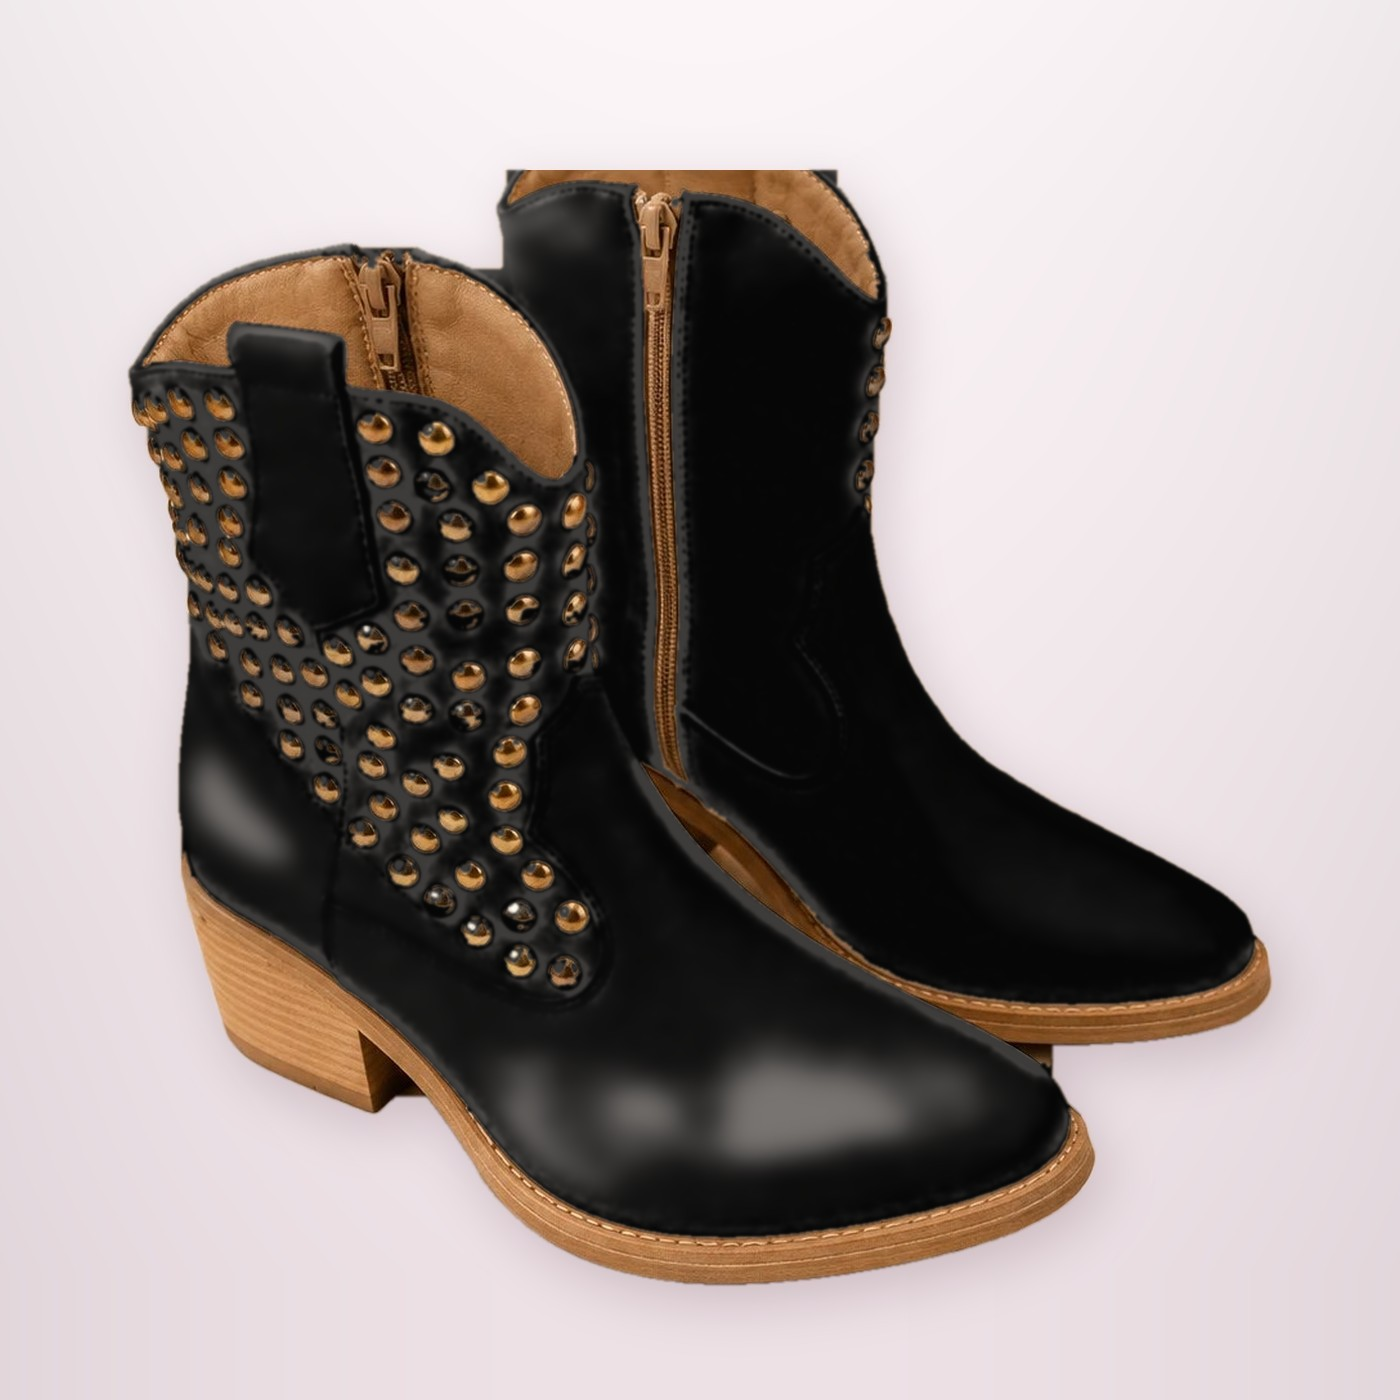
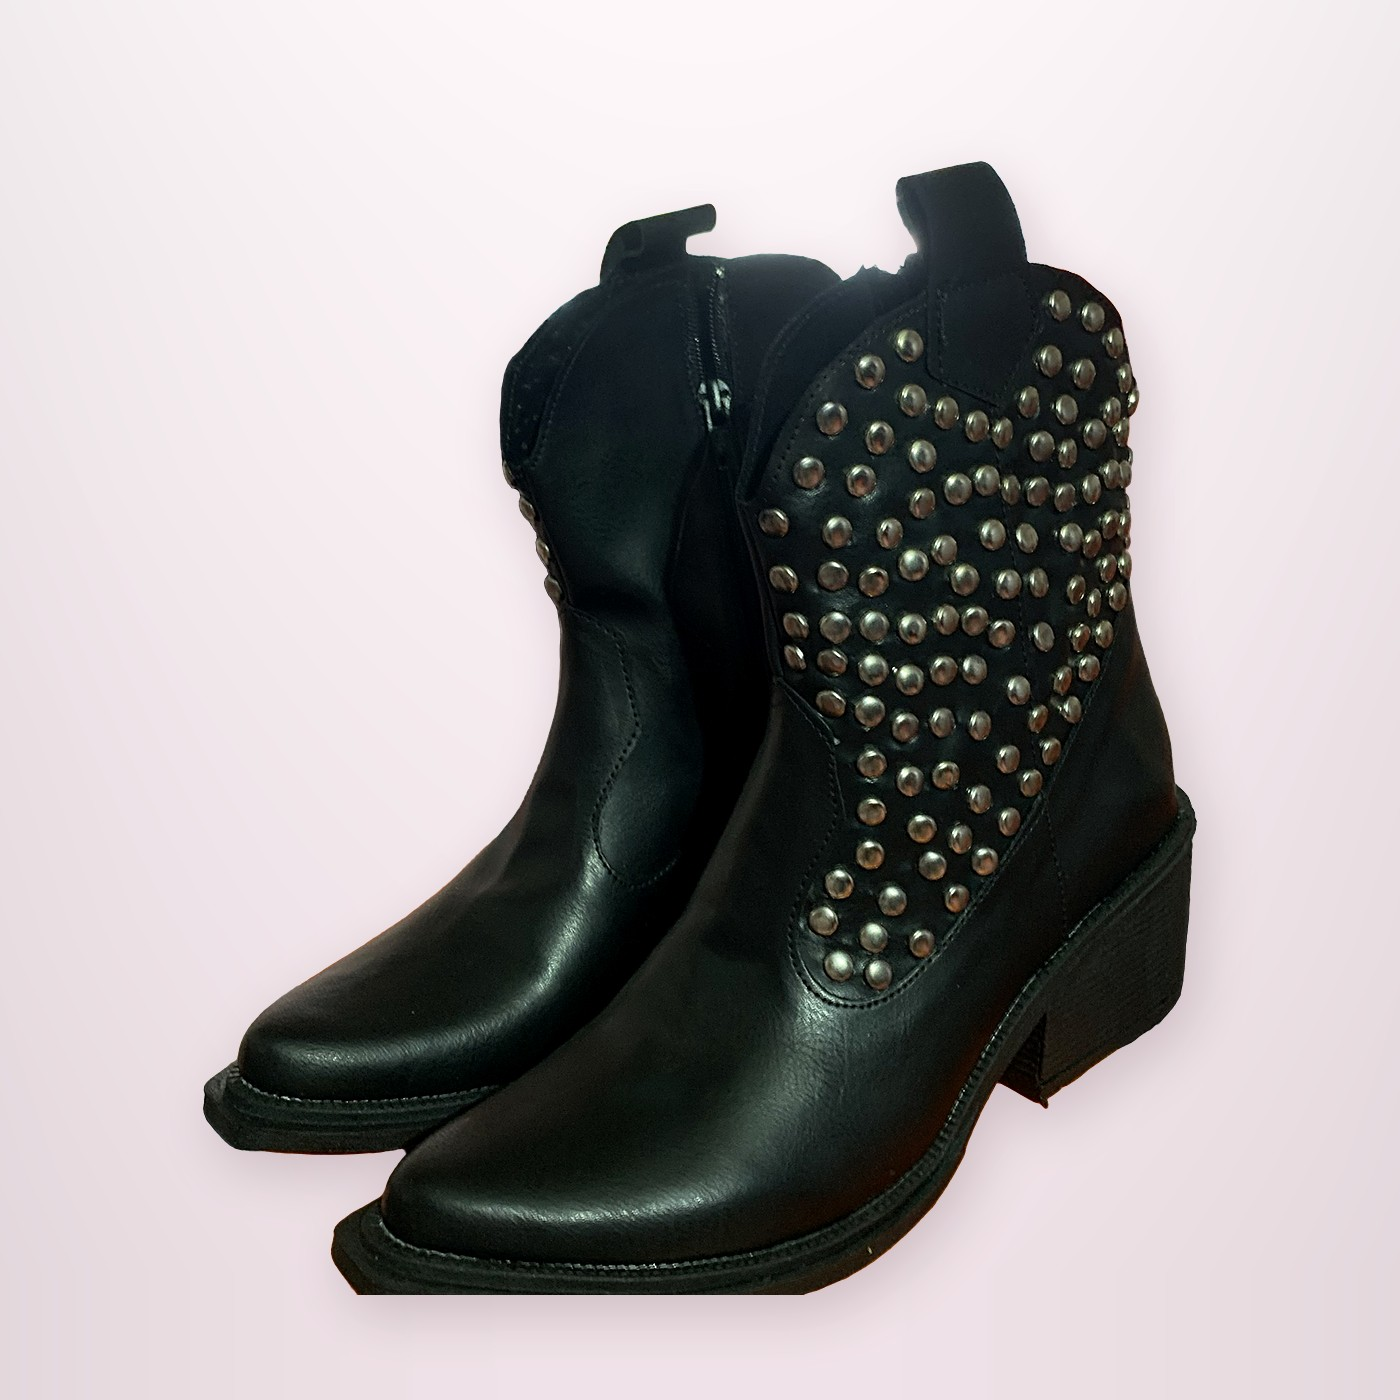
Bota texana con tachas negra: foto real
Claude-Session: https://claude.ai/code/session_016kC1pPyL2jkNLS5KGy46ZW

diff --git a/CLAUDE.md b/CLAUDE.md
@@ -30,7 +30,7 @@ No hay Node ni Python en las computadoras. `.claude/launch.json` → "tienda" le
 - Vercel Web Analytics: script en `index.html` (no en el editor); se activa en Vercel → proyecto → Analytics → Enable.
 - WhatsApp del local: 11 6949 0396 (`5491169490396`), botón flotante abajo a la derecha.
 - Instagram: https://www.instagram.com/nacireinacalzados/ (link en el pie de página y en `sameAs` del JSON-LD). Facebook no se usa.
-- Bota texana con tachas negra: foto recoloreada digitalmente a partir de la blanca (a pedido del dueño); reemplazar por una foto real cuando haya.
+- Bota texana con tachas negra: foto real del local (2026-09-29) sobre el fondo de estudio; reemplazó a la recoloreada.
 - Cajas de envío: tamaño caja de Nike, 35 × 24 × 13 cm y 800 g (dato del dueño). Botas de caña alta: 45 × 32 × 14 cm, 800 g.
 - Nunca pedir ni pegar claves ni datos bancarios en el chat: el usuario los carga directo en Vercel y en Mercado Pago.
 - Nombres sin marcas ajenas (2026-09-29): Campus → "Zapatillas retro de gamuza" (id 7), Samba → "Zapatillas retro suela caramelo" (id 8; después se unió a la id 31 a pedido del dueño: quedó `oculto` y su color marrón pasó a la 31 como "Caramelo y negro" a $30.000; su negro era el mismo que el de la 31), estilo Samba → "Zapatillas retro Reina" (id 31), Samba sin talón → "Zapatillas retro sin talón" (id 15, oculto). No usar Samba, Campus ni "tres tiras" en textos para clientes (los archivos de fotos conservan el nombre viejo).
